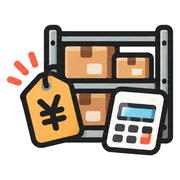
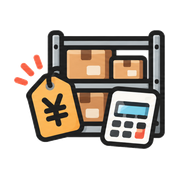
Update app

diff --git a/CHANGELOG.md b/CHANGELOG.md
@@ -3,6 +3,9 @@
 画面左上のロゴの横に出ている「v1.0.0」がバージョンです。更新を入れるたびに package.json の version を上げます。
 公開が反映されたかは、ここに書いたバージョンが画面に出ているかで確かめられます。
 
+## v1.7.3（2026/10/08）
+- ファビコン（タブのアイコン）とホーム画面用アイコンを、棚・値札・電卓のアイコンに変更（app/icon.png・app/apple-icon.png・app/favicon.ico。古い app/icon.svg は削除）
+
 ## v1.7.2（2026/10/08）
 - 旧原価との比較：カードの旧原価の金額も太字に
 - 旧原価との比較：「対象の商品」カードを削除し、一覧の件数の横に「▲ 増加商品／▼ 減少商品／― 同じ」の数を表示（絞り込み・検索に合わせて変わる）
